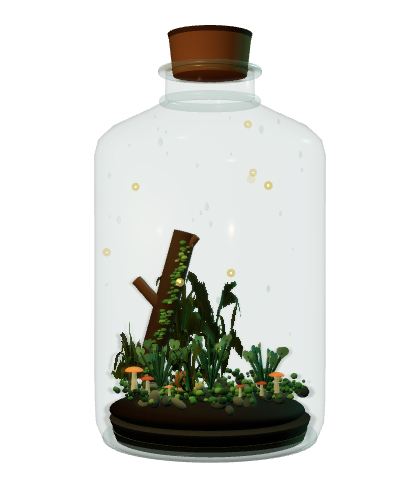
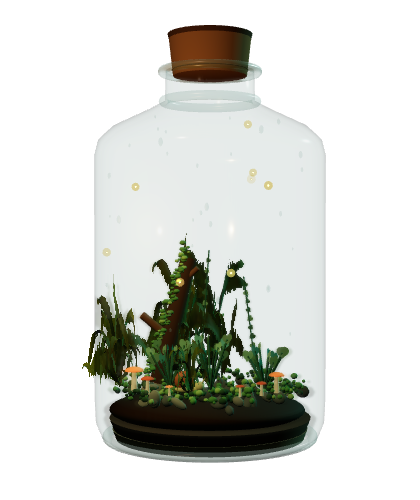
add fine foliage layers to terrarium

Changed region(s): [[0.1857, 0.45, 0.619, 0.78], [0.5571, 0.69, 0.5881, 0.72], [0.5262, 0.72, 0.5571, 0.75]]

diff --git a/glass-terrarium/main.js b/glass-terrarium/main.js
@@ -261,10 +261,10 @@ function createGround() {
 }
 
 function createLog() {
-  const trunk = cylinderBetween(new THREE.Vector3(-1.12, -2.08, -0.34), new THREE.Vector3(-0.48, 0.42, -0.58), 0.2, materials.bark, 28)
+  const trunk = cylinderBetween(new THREE.Vector3(-0.92, -2.14, -0.34), new THREE.Vector3(-0.42, -0.02, -0.58), 0.14, materials.bark, 28)
   world.add(trunk)
-  const branchA = cylinderBetween(new THREE.Vector3(-0.83, -0.92, -0.46), new THREE.Vector3(-1.28, -0.38, -0.28), 0.09, materials.barkLight, 18)
-  const branchB = cylinderBetween(new THREE.Vector3(-0.62, -0.08, -0.54), new THREE.Vector3(-0.27, 0.35, -0.45), 0.065, materials.barkLight, 16)
+  const branchA = cylinderBetween(new THREE.Vector3(-0.74, -1.38, -0.46), new THREE.Vector3(-1.18, -0.98, -0.28), 0.065, materials.barkLight, 18)
+  const branchB = cylinderBetween(new THREE.Vector3(-0.58, -0.48, -0.54), new THREE.Vector3(-0.25, -0.18, -0.45), 0.045, materials.barkLight, 16)
   world.add(branchA, branchB)
 
   const mossGeometry = new THREE.IcosahedronGeometry(0.038, 2)
@@ -299,6 +299,31 @@ function createRoundPlant(position, height, phase) {
   world.add(group)
 }
 
+// 细藤使用真实曲线管体和独立小叶，补足瓶内纵向层次而不增加块状体积。
+// 开发：Codex / GPT / 模型 ID 无法确认
+function createFineVine(position, height, lean, phase) {
+  const group = new THREE.Group()
+  group.position.copy(position)
+  const curve = new THREE.QuadraticBezierCurve3(
+    new THREE.Vector3(0, 0, 0),
+    new THREE.Vector3(lean * 0.45, height * 0.54, 0),
+    new THREE.Vector3(lean, height, 0)
+  )
+  group.add(cylinderBetween(new THREE.Vector3(0, 0, 0), curve.getPoint(1), 0.012, materials.fernDark, 6))
+  for (let index = 1; index <= 10; index += 1) {
+    const progress = index / 11
+    const point = curve.getPoint(progress)
+    const leaf = makeHeartLeaf(0.075 + pseudo(index * 19 + phase) * 0.03, index % 3 ? materials.roundLeaf : materials.roundLeafLight)
+    leaf.position.copy(point)
+    leaf.rotation.z = (index % 2 ? 1 : -1) * (0.64 + pseudo(index * 23) * 0.28)
+    leaf.rotation.y = pseudo(index * 29 + phase) * 0.34
+    group.add(leaf)
+  }
+  group.userData = { baseZ: 0, phase, amplitude: 0.012 }
+  animatedFronds.push(group)
+  world.add(group)
+}
+
 // 真实植株模型按独立根节点摆放，因此每株可以分别受风与浇水动作影响。
 // 开发：Codex / GPT / 模型 ID 无法确认
 async function createDetailedFerns() {
@@ -319,10 +344,10 @@ async function createDetailedFerns() {
   if (sourcePlants.length === 0) throw new Error('Fern model contains no renderable plants')
 
   const placements = [
-    { variant: 1, position: [-0.28, -2.08, 0.02], height: 1.22, yaw: 0.14, lean: 0.025, phase: 0.4 },
-    { variant: 1, position: [0.3, -2.08, -0.62], height: 2.35, yaw: -0.34, lean: -0.04, phase: 1.7 },
-    { variant: 2, position: [0.58, -2.08, 0.02], height: 1.48, yaw: 0.48, lean: -0.03, phase: 3.1 },
-    { variant: 3, position: [-0.1, -2.1, -0.88], height: 2.02, yaw: -0.72, lean: 0.02, phase: 4.5 },
+    { variant: 1, position: [-0.5, -2.08, 0.02], height: 2.08, yaw: 0.14, lean: 0.03, phase: 0.4 },
+    { variant: 1, position: [0.28, -2.08, -0.7], height: 2.72, yaw: -0.34, lean: -0.04, phase: 1.7 },
+    { variant: 2, position: [0.58, -2.08, 0.02], height: 1.52, yaw: 0.48, lean: -0.03, phase: 3.1 },
+    { variant: 3, position: [-0.1, -2.1, -1], height: 2.5, yaw: -0.72, lean: 0.02, phase: 4.5 },
     { variant: 1, position: [0.08, -2.09, 0.28], height: 1.2, yaw: 1.26, lean: -0.015, phase: 6.2 }
   ]
 
@@ -458,8 +483,11 @@ async function buildTerrarium() {
   createLog()
   await createDetailedFerns()
   createRoundPlant(new THREE.Vector3(0.08, -2.06, 0.76), 0.82, 0.8)
-  createRoundPlant(new THREE.Vector3(-0.72, -2.04, 0.78), 0.68, 4.2)
+  createRoundPlant(new THREE.Vector3(-0.56, -2.04, 0.78), 0.68, 4.2)
   createRoundPlant(new THREE.Vector3(0.92, -2.06, 0.54), 0.62, 2.8)
+  createFineVine(new THREE.Vector3(-0.68, -2.05, -0.98), 1.95, 0.32, 0.6)
+  createFineVine(new THREE.Vector3(0.72, -2.05, -1.02), 1.7, -0.24, 2.8)
+  createFineVine(new THREE.Vector3(-0.28, -2.05, -1.12), 2.16, 0.18, 4.8)
   createMushroom(-1.1, -2.07, 0.98, 0.82, true)
   createMushroom(-0.86, -2.08, 1.16, 0.58, false)
   createMushroom(1.12, -2.08, 0.84, 0.68, true)
